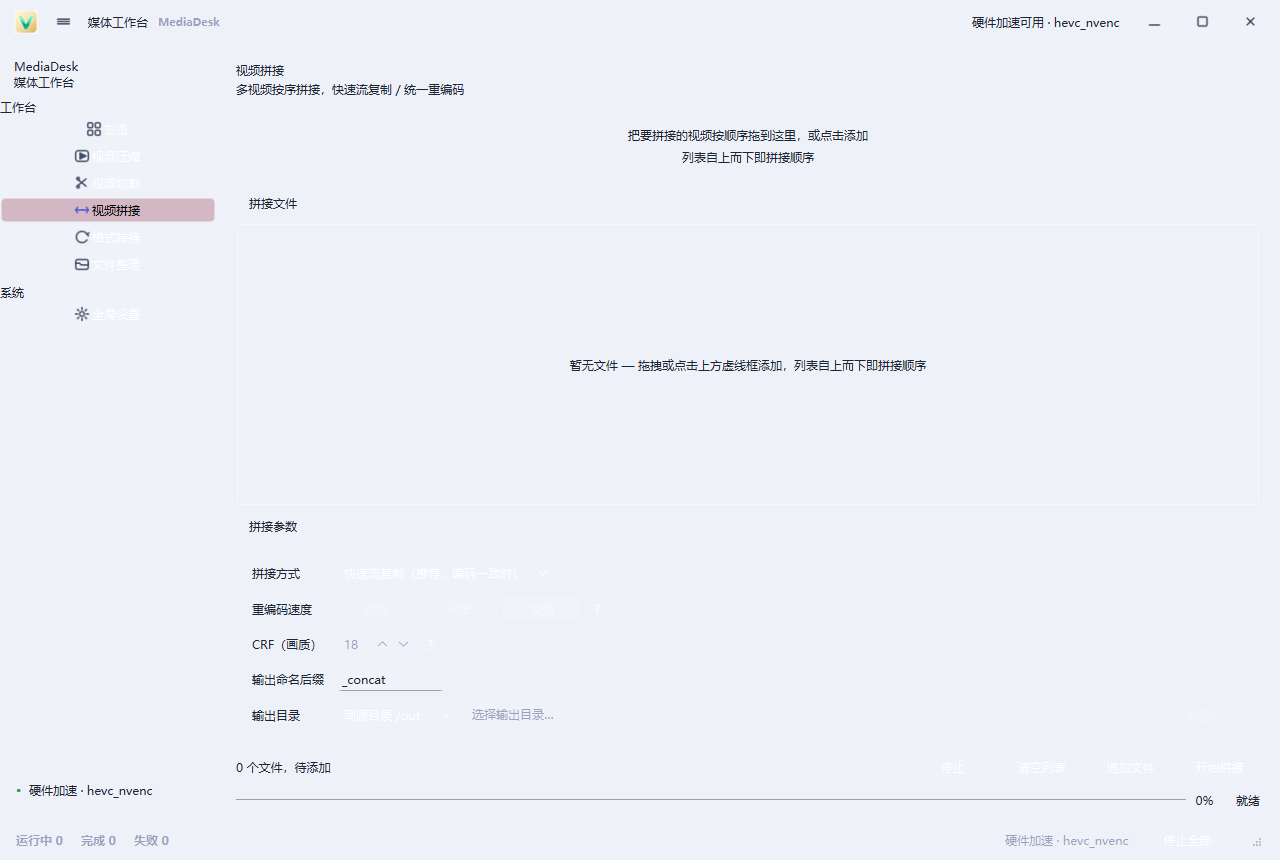
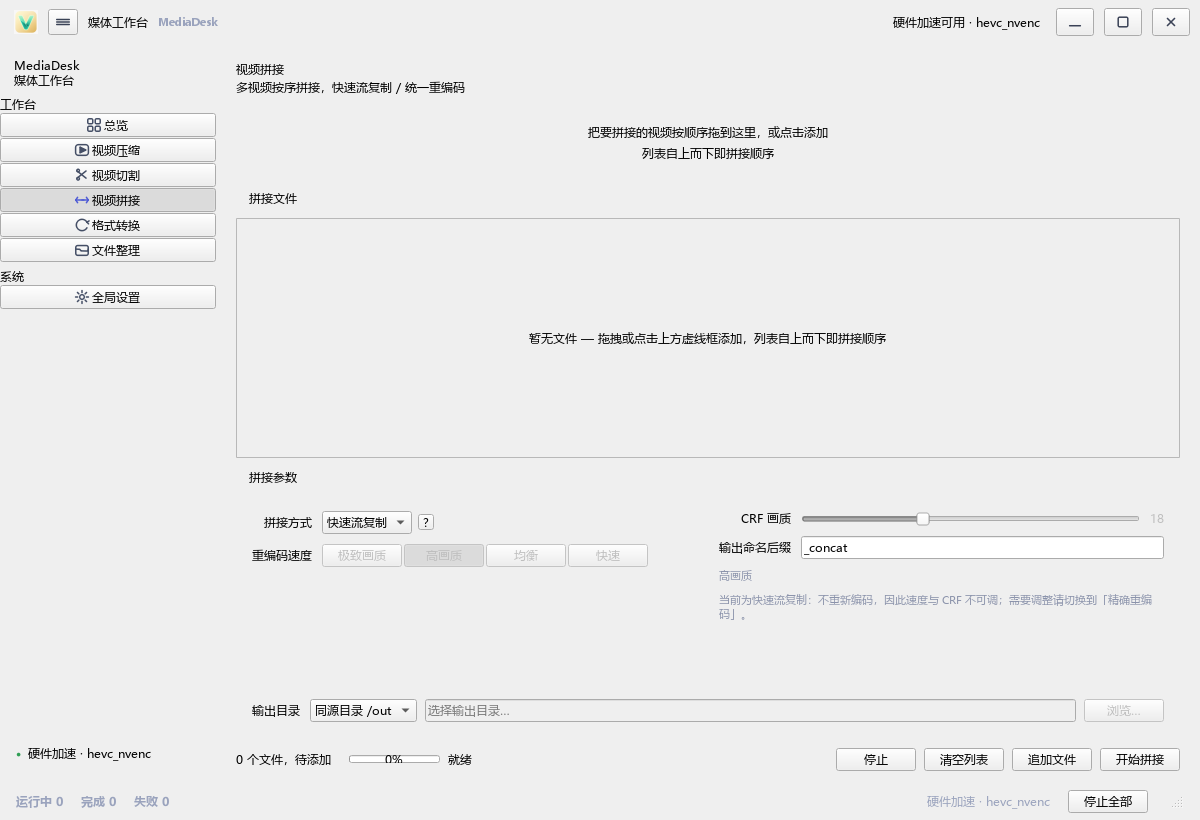
docs: 完善仓库说明与界面截图，补充忽略规则
- README：功能表补充四档位预设包与 CRF/码率双模式；打包流程改为 portable_build.py
  （说明 --skip-ffmpeg 与手动补 FFmpeg 的原因）；修正目录结构（原写的 app/core 不存在）；
  补全 5 个测试脚本与文档索引；顶部加 Python / PySide6 / 平台 / License 徽章
- 截图：用当前界面重新生成 7 张（四档位、两列参数区、自绘下拉），环境状态显示 NVENC 硬编
- .gitignore：忽略测试运行产物 tests/.media-config 与编辑器/工具临时目录，
  并移除误入库的 tests/.media-config/config.json

diff --git a/README.md b/README.md
@@ -1,5 +1,10 @@
 # MediaDesk 媒体工作台
 
+![Python](https://img.shields.io/badge/python-3.11%2B-blue)
+![PySide6](https://img.shields.io/badge/PySide6-6.6%2B-41cd52)
+![Platform](https://img.shields.io/badge/platform-Windows%2010%20%7C%2011-lightgrey)
+![License](https://img.shields.io/badge/license-MIT-green)
+
 把零散的 FFmpeg 能力收拢到一个统一的桌面客户端。基于 **PySide6**，提供视频压缩 / 切割 / 拼接 / 格式转换 / 文件整理 / 全局设置 六大模块，统一的浅色主题与直观的拖拽交互。
 
 > 主要面向媒体管理与整理场景，为设计师 / 开发者提供一条龙、可视化的批量处理工作台。
@@ -21,16 +26,17 @@
 | 模块 | 说明 |
 | --- | --- |
 | 总览 | 环境检测（FFmpeg / GPU / 编码器）+ 模块入口 |
-| 视频压缩 | 多文件拖入、硬件加速、自定义画质/分辨率、实时进度 |
-| 视频切割 | 按时间段切割，支持快速 / 精确重编码，多段时间轴 |
-| 视频拼接 | 多视频按序拼接，快速 / 统一重编码，排序调整 |
-| 格式转换 | mp4 / webm / mkv 容器互转，分辨率/画质/GPU/音频开关，仅提取音频 |
-| 文件整理 | 中文名加拼音前缀、垃圾文件清理、干跑预览 |
-| 全局设置 | FFmpeg 路径 / GPU / 输出目录 / 并发上限 |
+| 视频压缩 | 四档位预设包（极致画质 / 高画质 / 均衡 / 快速），CRF 恒定画质 ⇄ 目标码率双模式，档位切换全参数联动 |
+| 视频切割 | 按时间段切割，快速流复制 / 精确重编码，四档速度 + CRF 滑杆，多段时间轴 |
+| 视频拼接 | 多视频按序拼接，快速 / 统一重编码，四档速度 + CRF 滑杆，支持排序调整 |
+| 格式转换 | mp4 / webm / mkv 容器互转，分辨率 / 画质档位 / GPU / 音频开关，仅提取音频 |
+| 文件整理 | 组合模板重命名（拼音前缀 / 时间 / 序号 / 随机 / UUID）、垃圾文件清理、干跑预览 |
+| 全局设置 | FFmpeg 路径 / GPU / 输出目录 / 并发上限 / 完成通知 |
 
 - 所有媒体页支持**拖拽添加文件**、实时进度展示、可取消任务。
 - 硬件加速（GPU 编码：`hevc_nvenc` 等）与编码器选择在压缩 / 转换 / 设置各页实时同步。
-- 全局**浅色主题**，不受系统深色模式影响。
+- 压缩档位说明卡会根据**当前档位、CRF、分辨率、总时长**实时重算预估体积与处理速度。
+- 全局**浅色主题**，不受系统深色模式影响；下拉与分段控件统一自绘，风格一致。
 
 ## 环境要求
 
@@ -60,37 +66,55 @@ FFmpeg 查找优先级：**手动配置路径 > 随包 `ffmpeg/bin` > 系统 PAT
 python main.py
 ```
 
-## 打包（绿色版）
+## 打包（绿色便携版）
 
 ```bash
-pyinstaller MediaDesk.spec
+# 1) 打 onedir 目录版并排除 WebEngine / QML 等非必需组件（体积约 97 MB）
+python scripts/portable_build.py --skip-ffmpeg
+
+# 2) 把完整版 FFmpeg 手工放进产物（约 +196 MB）
+#    注意：不加 --skip-ffmpeg 时脚本会先清空 dist 再下载 FFmpeg，
+#    适合全新构建；已有 FFmpeg 时用上面的方式更快
+copy ffmpeg\bin\ffmpeg.exe  dist\MediaDesk\ffmpeg\bin\
+copy ffmpeg\bin\ffprobe.exe dist\MediaDesk\ffmpeg\bin\
 ```
 
-输出位于 `dist/`。打包时自动剔除 WebEngine / QML 等非必需组件以精简体积，并强制浅色调色板。
+产物位于 `dist/MediaDesk/`，**分发时需要复制整个文件夹**（`MediaDesk.exe` 只是入口，依赖同级的 `_internal/` 与 `ffmpeg/`）。
+
+> 也可使用 `MediaDesk.spec`：`pyinstaller MediaDesk.spec`。该文件内的路径为开发机绝对路径，迁移到其它机器前需先改 `Analysis(['.../main.py'])` 与 `datas`。
 
 ## 目录结构
 
 ```
 .
-├── main.py                 # 入口（强制浅色主题）
+├── main.py                  # 入口（强制浅色主题）
+├── MediaDesk.spec           # PyInstaller 配置（可选，路径为开发机绝对路径）
 ├── app/
-│   ├── ui/                 # 各模块界面（压缩/切割/拼接/转换/整理/设置）
-│   ├── core/ + task.py     # 业务逻辑与任务池（进度/取消统一管理）
-│   └── config.py           # 配置（子配置管理）
-├── ffmpeg/                 # 随包 FFmpeg 二进制（忽略提交）
-├── legacy_scripts/         # 旧版脚本归档（含 telegram_tools 演示代码）
-├── docs/                   # PRD 原型 / 设计稿 / 验收清单 / 使用说明
-├── scripts/                # 工具脚本（取 FFmpeg、资源生成等）
-└── tests/                  # 编译冒烟 + UI 构建检查
+│   ├── ui/                  # 界面层：main_window / 各功能页 / widgets / styles / icons
+│   ├── config.py            # 配置读写（分模块子配置 + 旧值迁移）
+│   ├── env.py               # FFmpeg / GPU / 编码器探测，时长缓存
+│   ├── ffmpeg_runner.py     # 各类命令构建（纯函数）+ 进度解析
+│   ├── task.py              # 任务池与四类任务（压缩 / 切割 / 拼接 / 转换）
+│   ├── renamer.py           # 文件整理规则引擎（模板 / 查找替换 / 转换）
+│   └── state.py             # 全局环境状态与广播信号
+├── ffmpeg/                  # 随包 FFmpeg 二进制（不入库）
+├── legacy_scripts/          # 旧版脚本归档（含 telegram 演示代码，凭据已排除）
+├── docs/                    # PRD / 设计稿 / 使用说明 / 验收清单 / UI 截图
+├── scripts/                 # 工具脚本（portable_build / fetch_ffmpeg / 资源生成）
+└── tests/                   # 冒烟、命令单测、重命名引擎、界面构建与行为校验
 ```
 
 ## 测试
 
 ```bash
-# 冒烟测试 + UI 离屏构建检查
-python tests/smoke_test.py
-python tests/ui_build_check.py
+python tests/smoke_test.py           # 界面/配置/环境/命令构建冒烟：期望 PASS 70 / FAIL 0
+python tests/test_ffmpeg_cmds.py     # 命令构建纯函数单测：期望 PASS 44 / FAIL 0
+python tests/test_renamer_engine.py  # 重命名规则引擎单测
+python tests/ui_build_check.py       # 全部页面离屏构建与切换
+python tests/ui_behavior_test.py     # 关键交互行为校验（离屏）
 ```
+
+> 测试默认使用离屏渲染（`QT_QPA_PLATFORM=offscreen`），不需要显示器；真实压缩需完整版 FFmpeg。
 
 ## 安全说明
 
@@ -104,6 +128,9 @@ python tests/ui_build_check.py
 - `docs/使用说明.md` —— 各模块操作指引
 - `docs/media-desk-prd/` —— 产品需求文档
 - `docs/prototype/mediadesk/index.html` —— 高保真交互原型
+- `docs/ui-design/compress-params-redesign.html` —— 压缩参数区设计稿（四档位 / 码率双模式）
+- `docs/ui-design/pages-refresh-preview.html` —— 七个页面的视觉规范与下拉子项设计预览
+- `docs/real-machine-verification-checklist.md` —— 真机验收清单
 
 ## License
 
